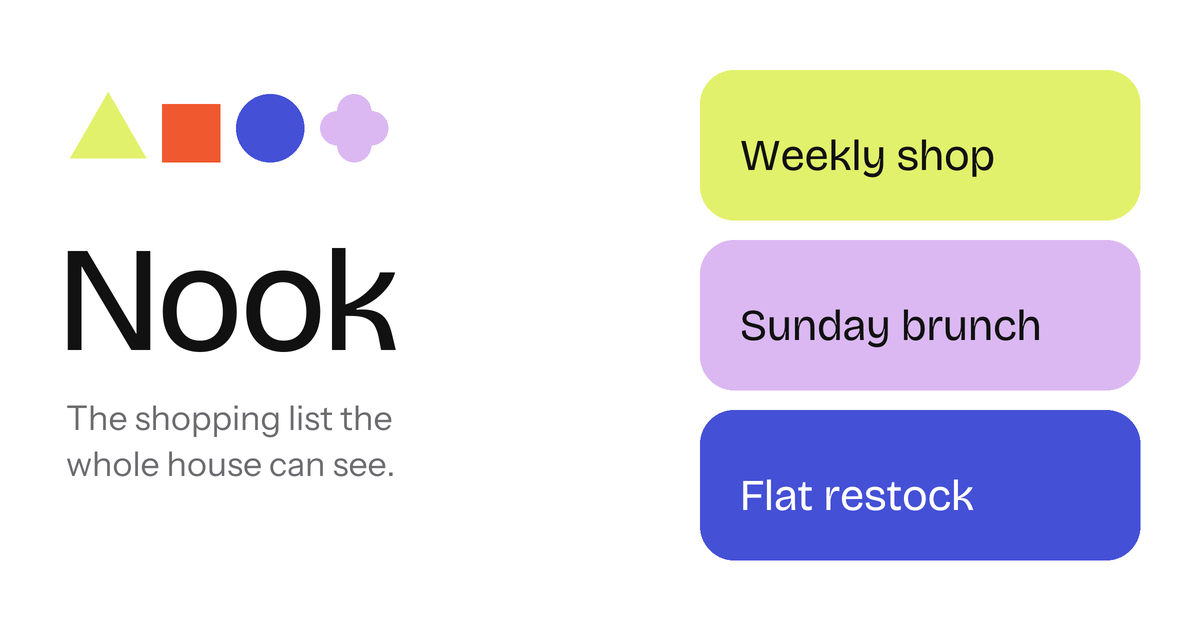
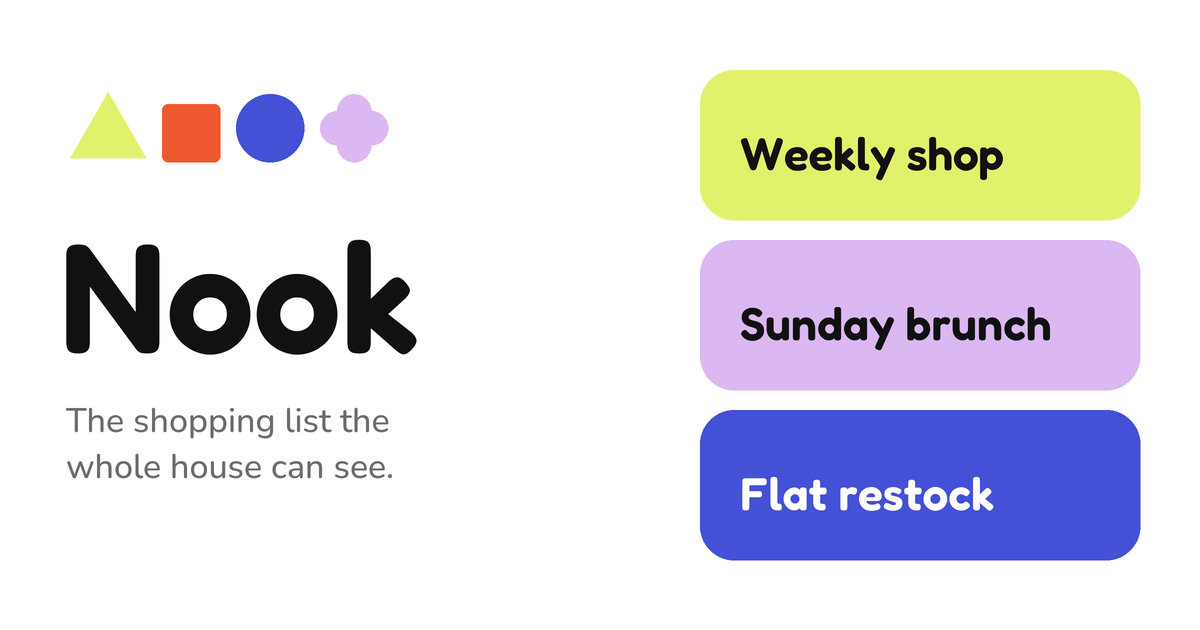
Rounded, playful type: Fredoka headings, Nunito text
The grotesk pair read as tidy but serious. Rounded type all the way
through matches the shape characters: Fredoka 600 for titles, board
names and the wordmark, Nunito for everything else. Self-hosted and
precached as before; the link-preview image is redrawn to match.

diff --git a/tailwind.config.js b/tailwind.config.js
@@ -4,10 +4,10 @@ export default {
   theme: {
     extend: {
       fontFamily: {
-        // Instrument Sans for reading and controls; Bricolage Grotesque for the
-        // big type — titles, headings, the wordmark — where Nook gets its voice.
-        sans: ['"Instrument Sans Variable"', '-apple-system', 'BlinkMacSystemFont', 'sans-serif'],
-        display: ['"Bricolage Grotesque Variable"', '"Instrument Sans Variable"', '-apple-system', 'sans-serif'],
+        // Rounded all the way through, to match the shape characters: Nunito
+        // for reading and controls, Fredoka for the big type where Nook has fun.
+        sans: ['"Nunito Variable"', '-apple-system', 'BlinkMacSystemFont', 'sans-serif'],
+        display: ['"Fredoka Variable"', '"Nunito Variable"', '-apple-system', 'sans-serif'],
       },
       colors: {
         ink: 'rgb(var(--ink) / <alpha-value>)',

diff --git a/vite.config.ts b/vite.config.ts
@@ -33,7 +33,7 @@ export default defineConfig({
       injectRegister: 'auto',
       workbox: {
         // Latin only: the other scripts are fetched on demand if a note needs them.
-        globPatterns: ['**/*.{js,css,html,svg,png,webmanifest}', '**/bricolage-grotesque-latin-*.woff2', '**/instrument-sans-latin-*.woff2'],
+        globPatterns: ['**/*.{js,css,html,svg,png,webmanifest}', '**/fredoka-latin-*.woff2', '**/nunito-latin-*.woff2'],
         // Only the app is a single page; the website and policy are real pages.
         navigateFallback: '/app/index.html',
         navigateFallbackAllowlist: [/^\/app/],

diff --git a/src/index.css b/src/index.css
@@ -126,7 +126,6 @@
   h1,
   h2 {
     font-family: theme('fontFamily.display');
-    font-optical-sizing: auto;
   }
 
   /* Taps land at once — no double-tap-to-zoom wait on controls. */
@@ -221,4 +220,14 @@
   .buddy-blink {
     animation: none;
   }
+}
+
+/*
+ * Fredoka is round and chunky: it wants weight and a little air between
+ * letters, not the light, tightly tracked setting the old grotesk had. Placed
+ * last so it wins over the per-element tracking and weight classes.
+ */
+:is(h1, h2, .font-display) {
+  font-weight: 600;
+  letter-spacing: -0.012em;
 }

diff --git a/app/index.html b/app/index.html
@@ -27,7 +27,7 @@
       #splash {
         position: fixed; inset: 0; z-index: 100; display: grid; place-items: center;
         background: #fff; transition: opacity .35s ease, visibility .35s;
-        font-family: 'Bricolage Grotesque Variable', -apple-system, BlinkMacSystemFont, sans-serif;
+        font-family: 'Fredoka Variable', -apple-system, BlinkMacSystemFont, sans-serif;
       }
       #splash.out { opacity: 0; visibility: hidden; }
       #splash .row { display: flex; align-items: flex-end; gap: 10px; height: 64px; }

diff --git a/privacy/index.html b/privacy/index.html
@@ -11,7 +11,7 @@
       * { box-sizing: border-box; }
       body {
         margin: 0; background: #fff; color: var(--ink);
-        font: 17px/1.6 'Instrument Sans Variable', -apple-system, BlinkMacSystemFont, sans-serif;
+        font: 17px/1.6 'Nunito Variable', -apple-system, BlinkMacSystemFont, sans-serif;
         -webkit-font-smoothing: antialiased;
       }
       header { border-bottom: 1px solid var(--line); }

diff --git a/src/main.tsx b/src/main.tsx
@@ -1,7 +1,7 @@
 import { StrictMode } from 'react'
 import { createRoot } from 'react-dom/client'
-import '@fontsource-variable/bricolage-grotesque/opsz.css'
-import '@fontsource-variable/instrument-sans'
+import '@fontsource-variable/fredoka'
+import '@fontsource-variable/nunito'
 import './index.css'
 import App from './App.tsx'
 import Boundary from './components/Boundary'

diff --git a/src/landing/main.tsx b/src/landing/main.tsx
@@ -1,7 +1,7 @@
 import { StrictMode } from 'react'
 import { createRoot } from 'react-dom/client'
-import '@fontsource-variable/bricolage-grotesque/opsz.css'
-import '@fontsource-variable/instrument-sans'
+import '@fontsource-variable/fredoka'
+import '@fontsource-variable/nunito'
 import '../index.css'
 import './landing.css'
 import Landing from './Landing'
